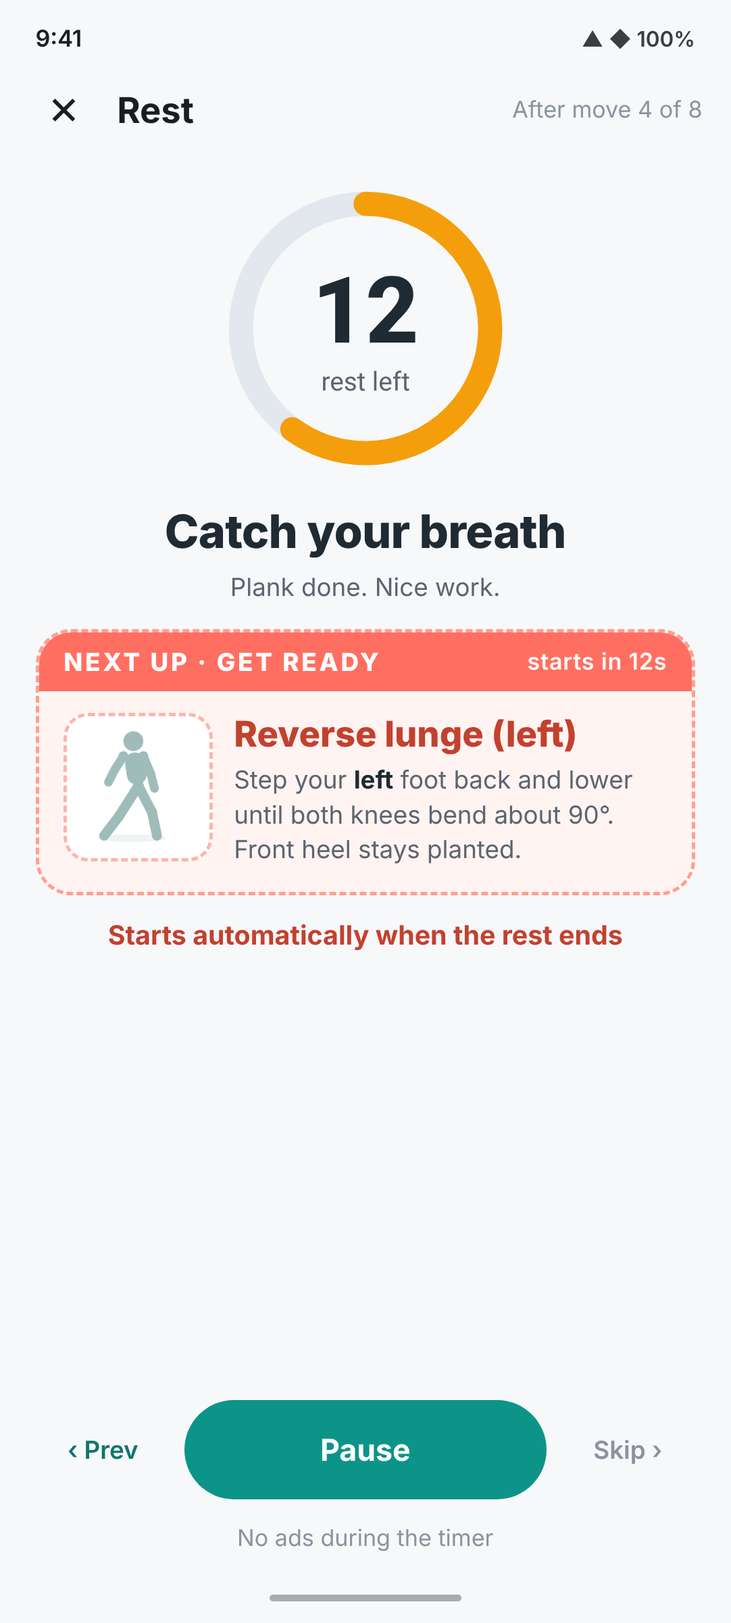
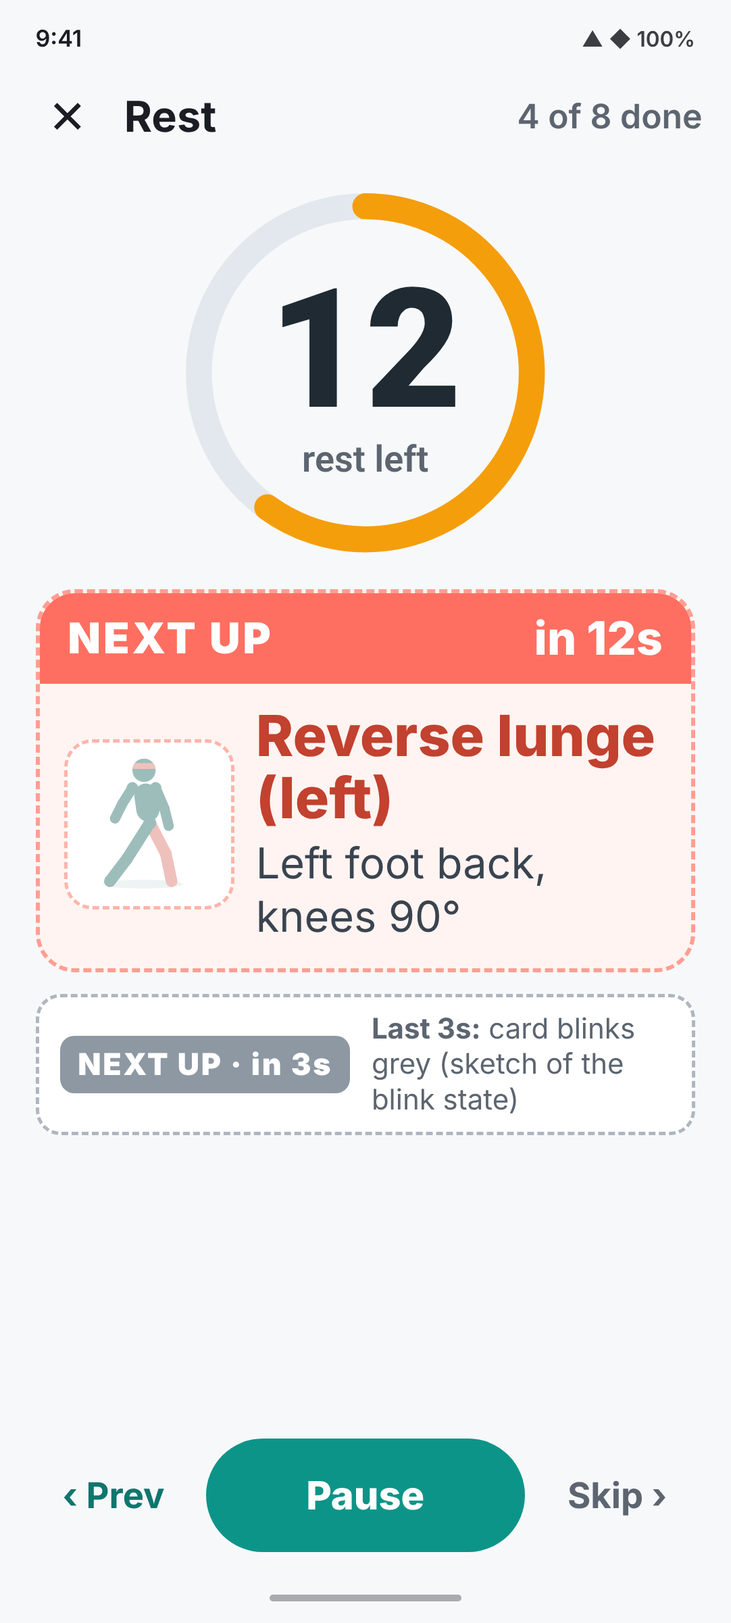
Day A mockups round 3: large glanceable text, headbands, blink state
Workout screens are meant to be read from standing, so names, cues,
countdowns and the next-up card are much bigger and the filler lines
are gone. Every figure now wears the coral headband from the icon.
Adds the grey blink for the last 3s before the next move (plus a
small GIF) and shows the coral back-leg idea as a proposal.

diff --git a/docs/mockups/dayA-feedback/src/d-first-workout-card.html b/docs/mockups/dayA-feedback/src/d-first-workout-card.html
@@ -1,9 +1,1 @@
-<!doctype html><html><head><meta charset="utf-8"><link rel="stylesheet" href="../../src/shared.css"><link rel="stylesheet" href="extra.css"></head><body><div class="phone"><div class="status-bar"><span>9:41</span><span class="status-icons">▲ ◆ 100%</span></div><div class="topbar"><div class="icon-btn">←</div><div class="title">Day A</div></div><div class="content" style="gap:10px"><div><div class="sub">Quiet morning · legs, push, core</div><div class="row" style="margin-top:8px;gap:6px"><span class="chip">~10 min</span><span class="chip">8 moves</span><span class="chip">No equipment</span></div></div><div class="card" style="padding:10px 14px"><div class="lbl">Warm-up · 2 min · no rests</div><div class="list"><div class="item "><div class="thumb"><img class="" src="../../../../assets/figures/march.svg"></div><div><div class="nm">March on the spot</div><div class="meta">30s</div></div></div><div class="item "><div class="thumb"><img class="" src="../../../../assets/figures/armCircles.svg"></div><div><div class="nm">Arm circles</div><div class="meta">30s</div></div></div><div class="item "><div class="thumb"><img class="" src="../../../../assets/figures/goodMorning.svg"></div><div><div class="nm">Good morning</div><div class="meta">30s</div></div></div><div class="item "><div class="thumb"><img class="" src="../../../../assets/figures/squat.svg"></div><div><div class="nm">Slow squats</div><div class="meta">30s</div></div></div></div></div><div class="card" style="padding:10px 14px"><div class="lbl">Work · 8 moves · 20s rest between</div><div class="list"><div class="item "><div class="thumb"><img class="" src="../../../../assets/figures/squat.svg"></div><div><div class="nm">Squat</div><div class="meta">40s</div></div></div><div class="item "><div class="thumb"><img class="" src="../../../../assets/figures/pushup.svg"></div><div><div class="nm">Push-up</div><div class="meta">40s</div></div></div><div class="item hl"><div class="thumb"><img class="" src="../../../../assets/figures/reverseLunge.svg"></div><div><div class="nm">Reverse lunge (right)<span class="new">side 1</span></div><div class="meta">40s · right leg steps back</div></div></div><div class="item "><div class="thumb"><img class="" src="../../../../assets/figures/plank.svg"></div><div><div class="nm">Plank</div><div class="meta">40s</div></div></div><div class="item hl"><div class="thumb"><img class="mirror" src="../../../../assets/figures/reverseLunge.svg"></div><div><div class="nm">Reverse lunge (left)<span class="new">side 2</span></div><div class="meta">40s · left leg steps back</div></div></div><div class="item "><div class="thumb"><img class="" src="../../../../assets/figures/pushup.svg"></div><div><div class="nm">Push-up</div><div class="meta">40s</div></div></div><div class="item "><div class="thumb"><img class="" src="../../../../assets/figures/squat.svg"></div><div><div class="nm">Squat</div><div class="meta">40s</div></div></div><div class="item "><div class="thumb"><img class="" src="../../../../assets/figures/gluteBridge.svg"></div><div><div class="nm">Glute bridge</div><div class="meta">40s</div></div></div></div></div><div class="spacer"></div><div class="btn">Start Day A</div></div><div class="nav-bar"><div class="nav-pill"></div></div><div class="scrim"></div>
-<div class="dialog"><div class="badge"><img src="../../../../assets/figures/march.svg" style="width:44px;height:44px"></div>
-<h2>Before you start</h2>
-<p>Don't worry about getting everything right — you'll get familiar with the moves over time.</p>
-<p><b style="color:#1F2A33">It's just great you're doing this.</b></p>
-<div class="check"><div class="box"></div>Don't show this again</div>
-<div class="btn">Let's go</div></div>
-<div class="note">Shown each time you tap Start, until "Don't show this again" is ticked</div>
-</div></body></html>
+<!doctype html><html><head><meta charset="utf-8"><link rel="stylesheet" href="../../src/shared.css"><link rel="stylesheet" href="r3.css"></head><body><div class="phone"><div class="status-bar"><span>9:41</span><span class="status-icons">▲ ◆ 100%</span></div><div class="topbar"><div class="icon-btn">←</div><div class="title">Day A</div></div><div class="content"><div><div class="sub2">Quiet morning · legs, push, core</div><div class="row" style="margin-top:8px;gap:6px"><span class="chip2">~10 min</span><span class="chip2">8 moves</span><span class="chip2">No kit</span></div></div><div class="card" style="padding:12px 14px"><div class="wu">Warm-up · 4 moves ▸<span>2 min · no rests</span></div></div><div class="card" style="padding:10px 14px"><div class="lbl2">Work · 40s each · 20s rest</div><div class="it "><div class="th"><img class="" src="fig/squat.svg"></div><div><div class="nm">Squat</div><div class="mt">40s</div></div></div><div class="it "><div class="th"><img class="" src="fig/pushup.svg"></div><div><div class="nm">Push-up</div><div class="mt">40s</div></div></div><div class="it hl"><div class="th"><img class="" src="fig/reverseLunge-coral-leg.svg"></div><div><div class="nm">Reverse lunge (right)<span class="side-tag">1</span></div><div class="mt">right leg steps back</div></div></div><div class="it "><div class="th"><img class="" src="fig/plank.svg"></div><div><div class="nm">Plank</div><div class="mt">40s</div></div></div><div class="it hl"><div class="th"><img class="mirror" src="fig/reverseLunge-coral-leg.svg"></div><div><div class="nm">Reverse lunge (left)<span class="side-tag">2</span></div><div class="mt">left leg steps back</div></div></div><div class="it "><div class="th"><img class="" src="fig/pushup.svg"></div><div><div class="nm">Push-up</div><div class="mt">40s</div></div></div><div class="it "><div class="th"><img class="" src="fig/squat.svg"></div><div><div class="nm">Squat</div><div class="mt">40s</div></div></div><div class="it "><div class="th"><img class="" src="fig/gluteBridge.svg"></div><div><div class="nm">Glute bridge</div><div class="mt">40s</div></div></div><div class="mt" style="margin-top:6px;color:#C2412F">Proposal: coral = the leg that steps back</div></div><div class="spacer"></div><div class="btn">Start Day A</div></div><div class="nav-bar"><div class="nav-pill"></div></div><div class="scrim"></div><div class="dialog"><div class="badge"><img src="fig/march.svg" style="width:50px;height:50px"></div><h2>Before you start</h2><p>Don't worry about getting everything right — you'll get familiar with the moves over time.</p><p><b style="color:#1F2A33">It's just great you're doing this.</b></p><div class="check"><div class="box"></div>Don't show this again</div><div class="btn">Let's go</div></div><div class="note">Shows each time you tap Start, until ticked</div></div></body></html>

diff --git a/docs/mockups/dayA-feedback/src/r3.css b/docs/mockups/dayA-feedback/src/r3.css
@@ -1,0 +1,69 @@
+:root{--navy:#1F2A33;--coral:#FF6F61;--coral-dk:#C2412F;--coral-soft:#FFE4E0}
+.topbar{display:flex;align-items:center;gap:10px;padding:4px 16px 0;height:56px;flex-shrink:0}
+.icon-btn{width:44px;height:44px;display:flex;align-items:center;justify-content:center;font-size:26px}
+.title{font-size:24px;font-weight:700}
+.pos{font-size:19px;color:var(--text-2);font-weight:600}
+.content{gap:12px!important}
+.fig{flex:1;display:flex;align-items:flex-end;justify-content:center;background:var(--accent-soft);border-radius:24px;min-height:0;position:relative;overflow:hidden}
+.fig img{height:100%;max-height:260px}
+.mirror{transform:scaleX(-1)}
+.prop{position:absolute;top:10px;left:10px;background:#fff;border:2px solid var(--coral);color:var(--coral-dk);font-size:16px;font-weight:700;padding:4px 10px;border-radius:10px}
+.exname{font-size:46px;font-weight:800;line-height:1.05;text-align:center;letter-spacing:-.8px;color:var(--navy)}
+.cue{font-size:28px;line-height:1.25;text-align:center;color:#3A4450;font-weight:500}
+.cue b{color:var(--navy)}
+.ringrow{display:flex;justify-content:center}
+.ctrls{display:flex;align-items:center;gap:8px;flex-shrink:0}
+.side{width:88px;text-align:center;font-size:20px;font-weight:700;color:var(--accent-dark);padding:14px 0}
+.side.skip{color:var(--text-2)}
+.pause{flex:1;height:64px;border-radius:32px;background:var(--accent);color:#fff;font-weight:800;font-size:22px;display:flex;align-items:center;justify-content:center}
+.chipnu{display:flex;align-items:center;gap:10px;background:#FFF4F1;border:2px dashed #FF9E92;border-radius:16px;padding:10px 14px;flex-shrink:0}
+.tag{background:var(--coral);color:#fff;font-size:18px;font-weight:800;letter-spacing:1px;padding:4px 10px;border-radius:8px}
+.chipnu img{width:40px;height:40px;opacity:.45}
+.chipnu .n{font-weight:800;color:var(--coral-dk);font-size:24px}
+.chipnu .m{font-size:18px;color:var(--text-2);margin-left:auto}
+.nu{background:#FFF4F1;border:2.5px dashed #FF9E92;border-radius:22px;overflow:hidden;flex-shrink:0}
+.nu-banner{background:var(--coral);color:#fff;font-weight:900;font-size:24px;letter-spacing:1.5px;padding:10px 16px;display:flex;justify-content:space-between;align-items:center}
+.nu-banner .in{letter-spacing:0;font-size:26px;font-weight:800}
+.nu-body{display:flex;gap:12px;padding:12px 14px 14px;align-items:center}
+.nu-fig{width:96px;height:96px;border-radius:16px;border:2px dashed #FFB4AA;display:flex;align-items:center;justify-content:center;flex-shrink:0;background:#fff}
+.nu-fig img{width:82px;height:82px;opacity:.45;filter:grayscale(.3)}
+.nu-name{font-size:32px;font-weight:800;color:var(--coral-dk);line-height:1.1}
+.nu-cue{font-size:24px;line-height:1.25;color:#3A4450;margin-top:4px}
+.nu.grey{background:#EEF1F4;border-color:#AEB6BF}
+.nu.grey .nu-banner{background:#8E98A3}
+.nu.grey .nu-name{color:#5C6570}
+.inset{display:flex;align-items:center;gap:12px;border:2px dashed #AEB6BF;border-radius:14px;padding:8px 12px;background:#fff;flex-shrink:0}
+.inset .mini{background:#8E98A3;color:#fff;font-weight:900;font-size:17px;letter-spacing:1px;padding:6px 10px;border-radius:8px;white-space:nowrap}
+.inset .cap{font-size:16px;color:var(--text-2);line-height:1.25}
+.now{display:flex;align-items:center;gap:14px;background:#fff;border-radius:18px;padding:10px 14px;box-shadow:var(--shadow);flex-shrink:0}
+.now .th{width:64px;height:64px;border-radius:14px;background:var(--accent-soft);display:flex;align-items:center;justify-content:center}
+.now .th img{width:56px;height:56px}
+.nowlbl{font-size:17px;font-weight:800;letter-spacing:1px;color:var(--accent-dark)}
+.nowname{font-size:32px;font-weight:800;color:var(--navy);line-height:1.1}
+/* list */
+.sub2{font-size:19px;color:var(--text-2)}
+.chip2{background:var(--accent-soft);color:var(--accent-dark);font-size:16px;font-weight:700;padding:5px 12px;border-radius:999px}
+.lbl2{font-size:16px;font-weight:800;letter-spacing:.8px;color:var(--text-2);text-transform:uppercase;margin-bottom:4px}
+.it{display:flex;align-items:center;gap:12px;padding:5px 0;border-bottom:1px solid #EEF1F5}
+.it:last-child{border-bottom:none}
+.it .th{width:44px;height:44px;border-radius:10px;background:var(--accent-soft);display:flex;align-items:center;justify-content:center;flex-shrink:0}
+.it .th img{width:40px;height:40px}
+.it .nm{font-size:19px;font-weight:700;line-height:1.15}
+.it .mt{font-size:16px;color:var(--text-2)}
+.it.hl{background:#FFF6F4;margin:0 -10px;padding:5px 10px;border-radius:10px;border-bottom:none}
+.side-tag{background:var(--coral-soft);color:var(--coral-dk);font-size:16px;font-weight:700;padding:1px 8px;border-radius:999px;margin-left:6px}
+.wu{display:flex;align-items:center;justify-content:space-between;font-size:19px;font-weight:700}
+.wu span{font-size:16px;color:var(--text-2);font-weight:500}
+.btn{font-size:21px!important;height:62px!important}
+/* dialog */
+.scrim{position:absolute;inset:0;background:rgba(15,18,24,.5)}
+.dialog{position:absolute;left:18px;right:18px;top:150px;background:#fff;border-radius:26px;padding:26px 24px 22px;box-shadow:0 12px 40px rgba(0,0,0,.25)}
+.dialog .badge{width:64px;height:64px;border-radius:32px;background:var(--coral-soft);display:flex;align-items:center;justify-content:center;margin-bottom:14px}
+.dialog h2{font-size:30px;margin-bottom:12px;color:var(--navy)}
+.dialog p{font-size:21px;line-height:1.45;color:#3A4450;margin-bottom:12px}
+.check{display:flex;align-items:center;gap:14px;padding:12px 0 20px;font-size:20px;font-weight:600}
+.box{width:30px;height:30px;border:2.5px solid var(--text-2);border-radius:7px;flex-shrink:0}
+.note{position:absolute;left:24px;right:24px;bottom:120px;background:rgba(15,18,24,.85);color:#fff;border-radius:12px;padding:10px 14px;font-size:16px;text-align:center}
+.fig{min-height:200px;padding-top:10px}
+.fig img{height:100%;max-height:100%;width:auto;object-fit:contain}
+.prop{line-height:1.15;max-width:130px}

diff --git a/docs/mockups/dayA-feedback/src/a-dayA-list.html b/docs/mockups/dayA-feedback/src/a-dayA-list.html
@@ -1,1 +1,1 @@
-<!doctype html><html><head><meta charset="utf-8"><link rel="stylesheet" href="../../src/shared.css"><link rel="stylesheet" href="extra.css"></head><body><div class="phone"><div class="status-bar"><span>9:41</span><span class="status-icons">▲ ◆ 100%</span></div><div class="topbar"><div class="icon-btn">←</div><div class="title">Day A</div></div><div class="content" style="gap:10px"><div><div class="sub">Quiet morning · legs, push, core</div><div class="row" style="margin-top:8px;gap:6px"><span class="chip">~10 min</span><span class="chip">8 moves</span><span class="chip">No equipment</span></div></div><div class="card" style="padding:10px 14px"><div class="lbl">Warm-up · 2 min · no rests</div><div class="list"><div class="item "><div class="thumb"><img class="" src="../../../../assets/figures/march.svg"></div><div><div class="nm">March on the spot</div><div class="meta">30s</div></div></div><div class="item "><div class="thumb"><img class="" src="../../../../assets/figures/armCircles.svg"></div><div><div class="nm">Arm circles</div><div class="meta">30s</div></div></div><div class="item "><div class="thumb"><img class="" src="../../../../assets/figures/goodMorning.svg"></div><div><div class="nm">Good morning</div><div class="meta">30s</div></div></div><div class="item "><div class="thumb"><img class="" src="../../../../assets/figures/squat.svg"></div><div><div class="nm">Slow squats</div><div class="meta">30s</div></div></div></div></div><div class="card" style="padding:10px 14px"><div class="lbl">Work · 8 moves · 20s rest between</div><div class="list"><div class="item "><div class="thumb"><img class="" src="../../../../assets/figures/squat.svg"></div><div><div class="nm">Squat</div><div class="meta">40s</div></div></div><div class="item "><div class="thumb"><img class="" src="../../../../assets/figures/pushup.svg"></div><div><div class="nm">Push-up</div><div class="meta">40s</div></div></div><div class="item hl"><div class="thumb"><img class="" src="../../../../assets/figures/reverseLunge.svg"></div><div><div class="nm">Reverse lunge (right)<span class="new">side 1</span></div><div class="meta">40s · right leg steps back</div></div></div><div class="item "><div class="thumb"><img class="" src="../../../../assets/figures/plank.svg"></div><div><div class="nm">Plank</div><div class="meta">40s</div></div></div><div class="item hl"><div class="thumb"><img class="mirror" src="../../../../assets/figures/reverseLunge.svg"></div><div><div class="nm">Reverse lunge (left)<span class="new">side 2</span></div><div class="meta">40s · left leg steps back</div></div></div><div class="item "><div class="thumb"><img class="" src="../../../../assets/figures/pushup.svg"></div><div><div class="nm">Push-up</div><div class="meta">40s</div></div></div><div class="item "><div class="thumb"><img class="" src="../../../../assets/figures/squat.svg"></div><div><div class="nm">Squat</div><div class="meta">40s</div></div></div><div class="item "><div class="thumb"><img class="" src="../../../../assets/figures/gluteBridge.svg"></div><div><div class="nm">Glute bridge</div><div class="meta">40s</div></div></div></div></div><div class="spacer"></div><div class="btn">Start Day A</div></div><div class="nav-bar"><div class="nav-pill"></div></div></div></body></html>
+<!doctype html><html><head><meta charset="utf-8"><link rel="stylesheet" href="../../src/shared.css"><link rel="stylesheet" href="r3.css"></head><body><div class="phone"><div class="status-bar"><span>9:41</span><span class="status-icons">▲ ◆ 100%</span></div><div class="topbar"><div class="icon-btn">←</div><div class="title">Day A</div></div><div class="content"><div><div class="sub2">Quiet morning · legs, push, core</div><div class="row" style="margin-top:8px;gap:6px"><span class="chip2">~10 min</span><span class="chip2">8 moves</span><span class="chip2">No kit</span></div></div><div class="card" style="padding:12px 14px"><div class="wu">Warm-up · 4 moves ▸<span>2 min · no rests</span></div></div><div class="card" style="padding:10px 14px"><div class="lbl2">Work · 40s each · 20s rest</div><div class="it "><div class="th"><img class="" src="fig/squat.svg"></div><div><div class="nm">Squat</div><div class="mt">40s</div></div></div><div class="it "><div class="th"><img class="" src="fig/pushup.svg"></div><div><div class="nm">Push-up</div><div class="mt">40s</div></div></div><div class="it hl"><div class="th"><img class="" src="fig/reverseLunge-coral-leg.svg"></div><div><div class="nm">Reverse lunge (right)<span class="side-tag">1</span></div><div class="mt">right leg steps back</div></div></div><div class="it "><div class="th"><img class="" src="fig/plank.svg"></div><div><div class="nm">Plank</div><div class="mt">40s</div></div></div><div class="it hl"><div class="th"><img class="mirror" src="fig/reverseLunge-coral-leg.svg"></div><div><div class="nm">Reverse lunge (left)<span class="side-tag">2</span></div><div class="mt">left leg steps back</div></div></div><div class="it "><div class="th"><img class="" src="fig/pushup.svg"></div><div><div class="nm">Push-up</div><div class="mt">40s</div></div></div><div class="it "><div class="th"><img class="" src="fig/squat.svg"></div><div><div class="nm">Squat</div><div class="mt">40s</div></div></div><div class="it "><div class="th"><img class="" src="fig/gluteBridge.svg"></div><div><div class="nm">Glute bridge</div><div class="mt">40s</div></div></div><div class="mt" style="margin-top:6px;color:#C2412F">Proposal: coral = the leg that steps back</div></div><div class="spacer"></div><div class="btn">Start Day A</div></div><div class="nav-bar"><div class="nav-pill"></div></div></div></body></html>

diff --git a/docs/mockups/dayA-feedback/src/e-warmup-next-preview.html b/docs/mockups/dayA-feedback/src/e-warmup-next-preview.html
@@ -1,1 +1,1 @@
-<!doctype html><html><head><meta charset="utf-8"><link rel="stylesheet" href="../../src/shared.css"><link rel="stylesheet" href="extra.css"></head><body><div class="phone"><div class="status-bar"><span>9:41</span><span class="status-icons">▲ ◆ 100%</span></div><div class="topbar"><div class="icon-btn">✕</div><div class="title">Warm-up</div><div class="spacer"></div><span class="muted">Warm-up 2/4</span></div><div class="content" style="gap:14px"><div class="now"><div class="thumb"><img src="../../../../assets/figures/armCircles.svg"></div><div><div class="nowlbl">NOW · KEEP GOING</div><div style="font-size:20px;font-weight:800;color:#1F2A33">Arm circles</div></div></div><div class="ringrow"><svg width="170" height="170" viewBox="0 0 150 150"><circle cx="75" cy="75" r="62" fill="none" stroke="#E3E8EE" stroke-width="12"/><circle cx="75" cy="75" r="62" fill="none" stroke="#0D9488" stroke-width="12" stroke-linecap="round" stroke-dasharray="90.9 389.6" transform="rotate(-90 75 75)"/><text x="75" y="82" text-anchor="middle" font-size="46" font-weight="800" fill="#1F2A33" font-family="Roboto,sans-serif">7</text><text x="75" y="106" text-anchor="middle" font-size="13" fill="#5C6570" font-family="Roboto,sans-serif">seconds left</text></svg></div><div class="nu"><div class="nu-banner">NEXT UP · GET READY<span>starts in 7s</span></div><div class="nu-body"><div class="nu-fig"><img class="" src="../../../../assets/figures/goodMorning.svg"></div><div><div class="nu-name">Good morning</div><div class="nu-cue">Soft knees, hinge at the hips with a flat back until you feel a hamstring stretch, then stand tall.</div></div></div></div><div class="getready">No rest in the warm-up: flow straight in</div><div class="spacer"></div><div class="ctrls"><div class="side">‹ Prev</div><div class="pause">Pause</div><div class="side skip">Skip ›</div></div><div class="muted" style="text-align:center">Preview shows for the last 25% of each warm-up move</div></div><div class="nav-bar"><div class="nav-pill"></div></div></div></body></html>
+<!doctype html><html><head><meta charset="utf-8"><link rel="stylesheet" href="../../src/shared.css"><link rel="stylesheet" href="r3.css"></head><body><div class="phone"><div class="status-bar"><span>9:41</span><span class="status-icons">▲ ◆ 100%</span></div><div class="topbar"><div class="icon-btn">✕</div><div class="title">Warm-up</div><div class="spacer"></div><span class="pos">2 of 4</span></div><div class="content"><div class="now"><div class="th"><img src="fig/armCircles.svg"></div><div><div class="nowlbl">NOW · KEEP GOING</div><div class="nowname">Arm circles</div></div></div><div class="ringrow"><svg width="210" height="210" viewBox="0 0 150 150"><circle cx="75" cy="75" r="64" fill="none" stroke="#E3E8EE" stroke-width="10"/><circle cx="75" cy="75" r="64" fill="none" stroke="#0D9488" stroke-width="10" stroke-linecap="round" stroke-dasharray="93.8 402.1" transform="rotate(-90 75 75)"/><text x="75" y="88" text-anchor="middle" font-size="64" font-weight="900" fill="#1F2A33" font-family="Roboto,sans-serif">7</text><text x="75" y="113" text-anchor="middle" font-size="14" font-weight="600" fill="#5C6570" font-family="Roboto,sans-serif">seconds left</text></svg></div><div class="nu"><div class="nu-banner">NEXT UP<span class="in">in 7s</span></div><div class="nu-body"><div class="nu-fig"><img class="" src="fig/goodMorning.svg"></div><div><div class="nu-name">Good morning</div><div class="nu-cue">Hinge at hips, flat back</div></div></div></div><div class="inset"><span class="mini">NEXT UP · in 3s</span><span class="cap"><b>Last 3s:</b> card blinks grey (sketch of the blink state)</span></div><div class="spacer"></div><div class="ctrls"><div class="side">‹ Prev</div><div class="pause">Pause</div><div class="side skip">Skip ›</div></div></div><div class="nav-bar"><div class="nav-pill"></div></div></div></body></html>

diff --git a/docs/mockups/dayA-feedback/src/c-rest-next.html b/docs/mockups/dayA-feedback/src/c-rest-next.html
@@ -1,1 +1,1 @@
-<!doctype html><html><head><meta charset="utf-8"><link rel="stylesheet" href="../../src/shared.css"><link rel="stylesheet" href="extra.css"></head><body><div class="phone"><div class="status-bar"><span>9:41</span><span class="status-icons">▲ ◆ 100%</span></div><div class="topbar"><div class="icon-btn">✕</div><div class="title">Rest</div><div class="spacer"></div><span class="muted">After move 4 of 8</span></div><div class="content" style="gap:14px"><div class="ringrow" style="margin-top:8px"><svg width="170" height="170" viewBox="0 0 150 150"><circle cx="75" cy="75" r="62" fill="none" stroke="#E3E8EE" stroke-width="12"/><circle cx="75" cy="75" r="62" fill="none" stroke="#F59E0B" stroke-width="12" stroke-linecap="round" stroke-dasharray="233.7 389.6" transform="rotate(-90 75 75)"/><text x="75" y="82" text-anchor="middle" font-size="46" font-weight="800" fill="#1F2A33" font-family="Roboto,sans-serif">12</text><text x="75" y="106" text-anchor="middle" font-size="13" fill="#5C6570" font-family="Roboto,sans-serif">rest left</text></svg></div><div class="exname" style="font-size:26px">Catch your breath</div><div class="sub" style="text-align:center;margin-top:-8px">Plank done. Nice work.</div><div class="nu"><div class="nu-banner">NEXT UP · GET READY<span>starts in 12s</span></div><div class="nu-body"><div class="nu-fig"><img class="mirror" src="../../../../assets/figures/reverseLunge.svg"></div><div><div class="nu-name">Reverse lunge (left)</div><div class="nu-cue">Step your <b>left</b> foot back and lower until both knees bend about 90°. Front heel stays planted.</div></div></div></div><div class="getready">Starts automatically when the rest ends</div><div class="spacer"></div><div class="ctrls"><div class="side">‹ Prev</div><div class="pause">Pause</div><div class="side skip">Skip ›</div></div><div class="muted" style="text-align:center">No ads during the timer</div></div><div class="nav-bar"><div class="nav-pill"></div></div></div></body></html>
+<!doctype html><html><head><meta charset="utf-8"><link rel="stylesheet" href="../../src/shared.css"><link rel="stylesheet" href="r3.css"></head><body><div class="phone"><div class="status-bar"><span>9:41</span><span class="status-icons">▲ ◆ 100%</span></div><div class="topbar"><div class="icon-btn">✕</div><div class="title">Rest</div><div class="spacer"></div><span class="pos">4 of 8 done</span></div><div class="content"><div class="ringrow"><svg width="220" height="220" viewBox="0 0 150 150"><circle cx="75" cy="75" r="64" fill="none" stroke="#E3E8EE" stroke-width="10"/><circle cx="75" cy="75" r="64" fill="none" stroke="#F59E0B" stroke-width="10" stroke-linecap="round" stroke-dasharray="241.3 402.1" transform="rotate(-90 75 75)"/><text x="75" y="88" text-anchor="middle" font-size="64" font-weight="900" fill="#1F2A33" font-family="Roboto,sans-serif">12</text><text x="75" y="113" text-anchor="middle" font-size="14" font-weight="600" fill="#5C6570" font-family="Roboto,sans-serif">rest left</text></svg></div><div class="nu"><div class="nu-banner">NEXT UP<span class="in">in 12s</span></div><div class="nu-body"><div class="nu-fig"><img class="mirror" src="fig/reverseLunge-coral-leg.svg"></div><div><div class="nu-name">Reverse lunge (left)</div><div class="nu-cue">Left foot back, knees 90°</div></div></div></div><div class="inset"><span class="mini">NEXT UP · in 3s</span><span class="cap"><b>Last 3s:</b> card blinks grey (sketch of the blink state)</span></div><div class="spacer"></div><div class="ctrls"><div class="side">‹ Prev</div><div class="pause">Pause</div><div class="side skip">Skip ›</div></div></div><div class="nav-bar"><div class="nav-pill"></div></div></div></body></html>

diff --git a/docs/mockups/dayA-feedback/src/b-exercise-cue.html b/docs/mockups/dayA-feedback/src/b-exercise-cue.html
@@ -1,1 +1,1 @@
-<!doctype html><html><head><meta charset="utf-8"><link rel="stylesheet" href="../../src/shared.css"><link rel="stylesheet" href="extra.css"></head><body><div class="phone"><div class="status-bar"><span>9:41</span><span class="status-icons">▲ ◆ 100%</span></div><div class="topbar"><div class="icon-btn">✕</div><div class="title">Work</div><div class="spacer"></div><span class="muted">Move 3 of 8</span></div><div class="content" style="gap:10px"><div class="fig"><img src="../../../../assets/figures/reverseLunge.svg"></div><div class="exname">Reverse lunge (right)</div><div class="cue">Step your <b>right</b> foot back and lower until both knees bend about 90°. Front heel stays planted.</div><div class="ringrow"><svg width="150" height="150" viewBox="0 0 150 150"><circle cx="75" cy="75" r="62" fill="none" stroke="#E3E8EE" stroke-width="12"/><circle cx="75" cy="75" r="62" fill="none" stroke="#0D9488" stroke-width="12" stroke-linecap="round" stroke-dasharray="263.0 389.6" transform="rotate(-90 75 75)"/><text x="75" y="82" text-anchor="middle" font-size="46" font-weight="800" fill="#1F2A33" font-family="Roboto,sans-serif">27</text><text x="75" y="106" text-anchor="middle" font-size="13" fill="#5C6570" font-family="Roboto,sans-serif">seconds left</text></svg></div><div class="chipnu"><span class="tag">NEXT UP</span><img src="../../../../assets/figures/plank.svg"><span class="n">Plank</span><span class="spacer"></span><span class="muted">after rest</span></div><div class="ctrls"><div class="side">‹ Prev</div><div class="pause">Pause</div><div class="side skip">Skip ›</div></div><div class="muted" style="text-align:center">No ads during the timer</div></div><div class="nav-bar"><div class="nav-pill"></div></div></div></body></html>
+<!doctype html><html><head><meta charset="utf-8"><link rel="stylesheet" href="../../src/shared.css"><link rel="stylesheet" href="r3.css"></head><body><div class="phone"><div class="status-bar"><span>9:41</span><span class="status-icons">▲ ◆ 100%</span></div><div class="topbar"><div class="icon-btn">✕</div><div class="title">Work</div><div class="spacer"></div><span class="pos">3 of 8</span></div><div class="content"><div class="fig"><span class="prop">Proposal:<br>coral back leg</span><img src="fig/reverseLunge-coral-leg.svg"></div><div class="exname">Reverse lunge<br>(right)</div><div class="cue">Right foot back, knees 90°</div><div class="ringrow"><svg width="165" height="165" viewBox="0 0 150 150"><circle cx="75" cy="75" r="64" fill="none" stroke="#E3E8EE" stroke-width="10"/><circle cx="75" cy="75" r="64" fill="none" stroke="#0D9488" stroke-width="10" stroke-linecap="round" stroke-dasharray="271.4 402.1" transform="rotate(-90 75 75)"/><text x="75" y="88" text-anchor="middle" font-size="64" font-weight="900" fill="#1F2A33" font-family="Roboto,sans-serif">27</text><text x="75" y="113" text-anchor="middle" font-size="14" font-weight="600" fill="#5C6570" font-family="Roboto,sans-serif">seconds left</text></svg></div><div class="chipnu"><span class="tag">NEXT UP</span><img src="fig/plank.svg"><span class="n">Plank</span><span class="m">after rest</span></div><div class="ctrls"><div class="side">‹ Prev</div><div class="pause">Pause</div><div class="side skip">Skip ›</div></div></div><div class="nav-bar"><div class="nav-pill"></div></div></div></body></html>

diff --git a/docs/mockups/dayA-feedback/src/gif/f1.html b/docs/mockups/dayA-feedback/src/gif/f1.html
@@ -1,0 +1,1 @@
+<!doctype html><html><head><meta charset="utf-8"><link rel="stylesheet" href="../../../src/shared.css"><link rel="stylesheet" href="../r3.css"></head><body><div class="phone"><div class="status-bar"><span>9:41</span><span class="status-icons">▲ ◆ 100%</span></div><div class="topbar"><div class="icon-btn">✕</div><div class="title">Rest</div><div class="spacer"></div><span class="pos">4 of 8 done</span></div><div class="content"><div class="ringrow"><svg width="220" height="220" viewBox="0 0 150 150"><circle cx="75" cy="75" r="64" fill="none" stroke="#E3E8EE" stroke-width="10"/><circle cx="75" cy="75" r="64" fill="none" stroke="#F59E0B" stroke-width="10" stroke-linecap="round" stroke-dasharray="60.3 402.1" transform="rotate(-90 75 75)"/><text x="75" y="88" text-anchor="middle" font-size="64" font-weight="900" fill="#1F2A33" font-family="Roboto,sans-serif">3</text><text x="75" y="113" text-anchor="middle" font-size="14" font-weight="600" fill="#5C6570" font-family="Roboto,sans-serif">rest left</text></svg></div><div class="nu grey"><div class="nu-banner">NEXT UP<span class="in">in 3s</span></div><div class="nu-body"><div class="nu-fig"><img class="mirror" src="../fig/reverseLunge-coral-leg.svg"></div><div><div class="nu-name">Reverse lunge (left)</div><div class="nu-cue">Left foot back, knees 90°</div></div></div></div><div class="spacer"></div><div class="ctrls"><div class="side">‹ Prev</div><div class="pause">Pause</div><div class="side skip">Skip ›</div></div></div><div class="nav-bar"><div class="nav-pill"></div></div></div></body></html>

diff --git a/docs/mockups/dayA-feedback/src/gif/f3.html b/docs/mockups/dayA-feedback/src/gif/f3.html
@@ -1,0 +1,1 @@
+<!doctype html><html><head><meta charset="utf-8"><link rel="stylesheet" href="../../../src/shared.css"><link rel="stylesheet" href="../r3.css"></head><body><div class="phone"><div class="status-bar"><span>9:41</span><span class="status-icons">▲ ◆ 100%</span></div><div class="topbar"><div class="icon-btn">✕</div><div class="title">Rest</div><div class="spacer"></div><span class="pos">4 of 8 done</span></div><div class="content"><div class="ringrow"><svg width="220" height="220" viewBox="0 0 150 150"><circle cx="75" cy="75" r="64" fill="none" stroke="#E3E8EE" stroke-width="10"/><circle cx="75" cy="75" r="64" fill="none" stroke="#F59E0B" stroke-width="10" stroke-linecap="round" stroke-dasharray="40.2 402.1" transform="rotate(-90 75 75)"/><text x="75" y="88" text-anchor="middle" font-size="64" font-weight="900" fill="#1F2A33" font-family="Roboto,sans-serif">2</text><text x="75" y="113" text-anchor="middle" font-size="14" font-weight="600" fill="#5C6570" font-family="Roboto,sans-serif">rest left</text></svg></div><div class="nu grey"><div class="nu-banner">NEXT UP<span class="in">in 2s</span></div><div class="nu-body"><div class="nu-fig"><img class="mirror" src="../fig/reverseLunge-coral-leg.svg"></div><div><div class="nu-name">Reverse lunge (left)</div><div class="nu-cue">Left foot back, knees 90°</div></div></div></div><div class="spacer"></div><div class="ctrls"><div class="side">‹ Prev</div><div class="pause">Pause</div><div class="side skip">Skip ›</div></div></div><div class="nav-bar"><div class="nav-pill"></div></div></div></body></html>

diff --git a/docs/mockups/dayA-feedback/src/gif/f5.html b/docs/mockups/dayA-feedback/src/gif/f5.html
@@ -1,0 +1,1 @@
+<!doctype html><html><head><meta charset="utf-8"><link rel="stylesheet" href="../../../src/shared.css"><link rel="stylesheet" href="../r3.css"></head><body><div class="phone"><div class="status-bar"><span>9:41</span><span class="status-icons">▲ ◆ 100%</span></div><div class="topbar"><div class="icon-btn">✕</div><div class="title">Rest</div><div class="spacer"></div><span class="pos">4 of 8 done</span></div><div class="content"><div class="ringrow"><svg width="220" height="220" viewBox="0 0 150 150"><circle cx="75" cy="75" r="64" fill="none" stroke="#E3E8EE" stroke-width="10"/><circle cx="75" cy="75" r="64" fill="none" stroke="#F59E0B" stroke-width="10" stroke-linecap="round" stroke-dasharray="20.1 402.1" transform="rotate(-90 75 75)"/><text x="75" y="88" text-anchor="middle" font-size="64" font-weight="900" fill="#1F2A33" font-family="Roboto,sans-serif">1</text><text x="75" y="113" text-anchor="middle" font-size="14" font-weight="600" fill="#5C6570" font-family="Roboto,sans-serif">rest left</text></svg></div><div class="nu grey"><div class="nu-banner">NEXT UP<span class="in">in 1s</span></div><div class="nu-body"><div class="nu-fig"><img class="mirror" src="../fig/reverseLunge-coral-leg.svg"></div><div><div class="nu-name">Reverse lunge (left)</div><div class="nu-cue">Left foot back, knees 90°</div></div></div></div><div class="spacer"></div><div class="ctrls"><div class="side">‹ Prev</div><div class="pause">Pause</div><div class="side skip">Skip ›</div></div></div><div class="nav-bar"><div class="nav-pill"></div></div></div></body></html>

diff --git a/docs/mockups/dayA-feedback/src/gif/f0.html b/docs/mockups/dayA-feedback/src/gif/f0.html
@@ -1,0 +1,1 @@
+<!doctype html><html><head><meta charset="utf-8"><link rel="stylesheet" href="../../../src/shared.css"><link rel="stylesheet" href="../r3.css"></head><body><div class="phone"><div class="status-bar"><span>9:41</span><span class="status-icons">▲ ◆ 100%</span></div><div class="topbar"><div class="icon-btn">✕</div><div class="title">Rest</div><div class="spacer"></div><span class="pos">4 of 8 done</span></div><div class="content"><div class="ringrow"><svg width="220" height="220" viewBox="0 0 150 150"><circle cx="75" cy="75" r="64" fill="none" stroke="#E3E8EE" stroke-width="10"/><circle cx="75" cy="75" r="64" fill="none" stroke="#F59E0B" stroke-width="10" stroke-linecap="round" stroke-dasharray="60.3 402.1" transform="rotate(-90 75 75)"/><text x="75" y="88" text-anchor="middle" font-size="64" font-weight="900" fill="#1F2A33" font-family="Roboto,sans-serif">3</text><text x="75" y="113" text-anchor="middle" font-size="14" font-weight="600" fill="#5C6570" font-family="Roboto,sans-serif">rest left</text></svg></div><div class="nu"><div class="nu-banner">NEXT UP<span class="in">in 3s</span></div><div class="nu-body"><div class="nu-fig"><img class="mirror" src="../fig/reverseLunge-coral-leg.svg"></div><div><div class="nu-name">Reverse lunge (left)</div><div class="nu-cue">Left foot back, knees 90°</div></div></div></div><div class="spacer"></div><div class="ctrls"><div class="side">‹ Prev</div><div class="pause">Pause</div><div class="side skip">Skip ›</div></div></div><div class="nav-bar"><div class="nav-pill"></div></div></div></body></html>

diff --git a/docs/mockups/dayA-feedback/src/gif/f2.html b/docs/mockups/dayA-feedback/src/gif/f2.html
@@ -1,0 +1,1 @@
+<!doctype html><html><head><meta charset="utf-8"><link rel="stylesheet" href="../../../src/shared.css"><link rel="stylesheet" href="../r3.css"></head><body><div class="phone"><div class="status-bar"><span>9:41</span><span class="status-icons">▲ ◆ 100%</span></div><div class="topbar"><div class="icon-btn">✕</div><div class="title">Rest</div><div class="spacer"></div><span class="pos">4 of 8 done</span></div><div class="content"><div class="ringrow"><svg width="220" height="220" viewBox="0 0 150 150"><circle cx="75" cy="75" r="64" fill="none" stroke="#E3E8EE" stroke-width="10"/><circle cx="75" cy="75" r="64" fill="none" stroke="#F59E0B" stroke-width="10" stroke-linecap="round" stroke-dasharray="40.2 402.1" transform="rotate(-90 75 75)"/><text x="75" y="88" text-anchor="middle" font-size="64" font-weight="900" fill="#1F2A33" font-family="Roboto,sans-serif">2</text><text x="75" y="113" text-anchor="middle" font-size="14" font-weight="600" fill="#5C6570" font-family="Roboto,sans-serif">rest left</text></svg></div><div class="nu"><div class="nu-banner">NEXT UP<span class="in">in 2s</span></div><div class="nu-body"><div class="nu-fig"><img class="mirror" src="../fig/reverseLunge-coral-leg.svg"></div><div><div class="nu-name">Reverse lunge (left)</div><div class="nu-cue">Left foot back, knees 90°</div></div></div></div><div class="spacer"></div><div class="ctrls"><div class="side">‹ Prev</div><div class="pause">Pause</div><div class="side skip">Skip ›</div></div></div><div class="nav-bar"><div class="nav-pill"></div></div></div></body></html>

diff --git a/docs/mockups/dayA-feedback/src/gif/f4.html b/docs/mockups/dayA-feedback/src/gif/f4.html
@@ -1,0 +1,1 @@
+<!doctype html><html><head><meta charset="utf-8"><link rel="stylesheet" href="../../../src/shared.css"><link rel="stylesheet" href="../r3.css"></head><body><div class="phone"><div class="status-bar"><span>9:41</span><span class="status-icons">▲ ◆ 100%</span></div><div class="topbar"><div class="icon-btn">✕</div><div class="title">Rest</div><div class="spacer"></div><span class="pos">4 of 8 done</span></div><div class="content"><div class="ringrow"><svg width="220" height="220" viewBox="0 0 150 150"><circle cx="75" cy="75" r="64" fill="none" stroke="#E3E8EE" stroke-width="10"/><circle cx="75" cy="75" r="64" fill="none" stroke="#F59E0B" stroke-width="10" stroke-linecap="round" stroke-dasharray="20.1 402.1" transform="rotate(-90 75 75)"/><text x="75" y="88" text-anchor="middle" font-size="64" font-weight="900" fill="#1F2A33" font-family="Roboto,sans-serif">1</text><text x="75" y="113" text-anchor="middle" font-size="14" font-weight="600" fill="#5C6570" font-family="Roboto,sans-serif">rest left</text></svg></div><div class="nu"><div class="nu-banner">NEXT UP<span class="in">in 1s</span></div><div class="nu-body"><div class="nu-fig"><img class="mirror" src="../fig/reverseLunge-coral-leg.svg"></div><div><div class="nu-name">Reverse lunge (left)</div><div class="nu-cue">Left foot back, knees 90°</div></div></div></div><div class="spacer"></div><div class="ctrls"><div class="side">‹ Prev</div><div class="pause">Pause</div><div class="side skip">Skip ›</div></div></div><div class="nav-bar"><div class="nav-pill"></div></div></div></body></html>
